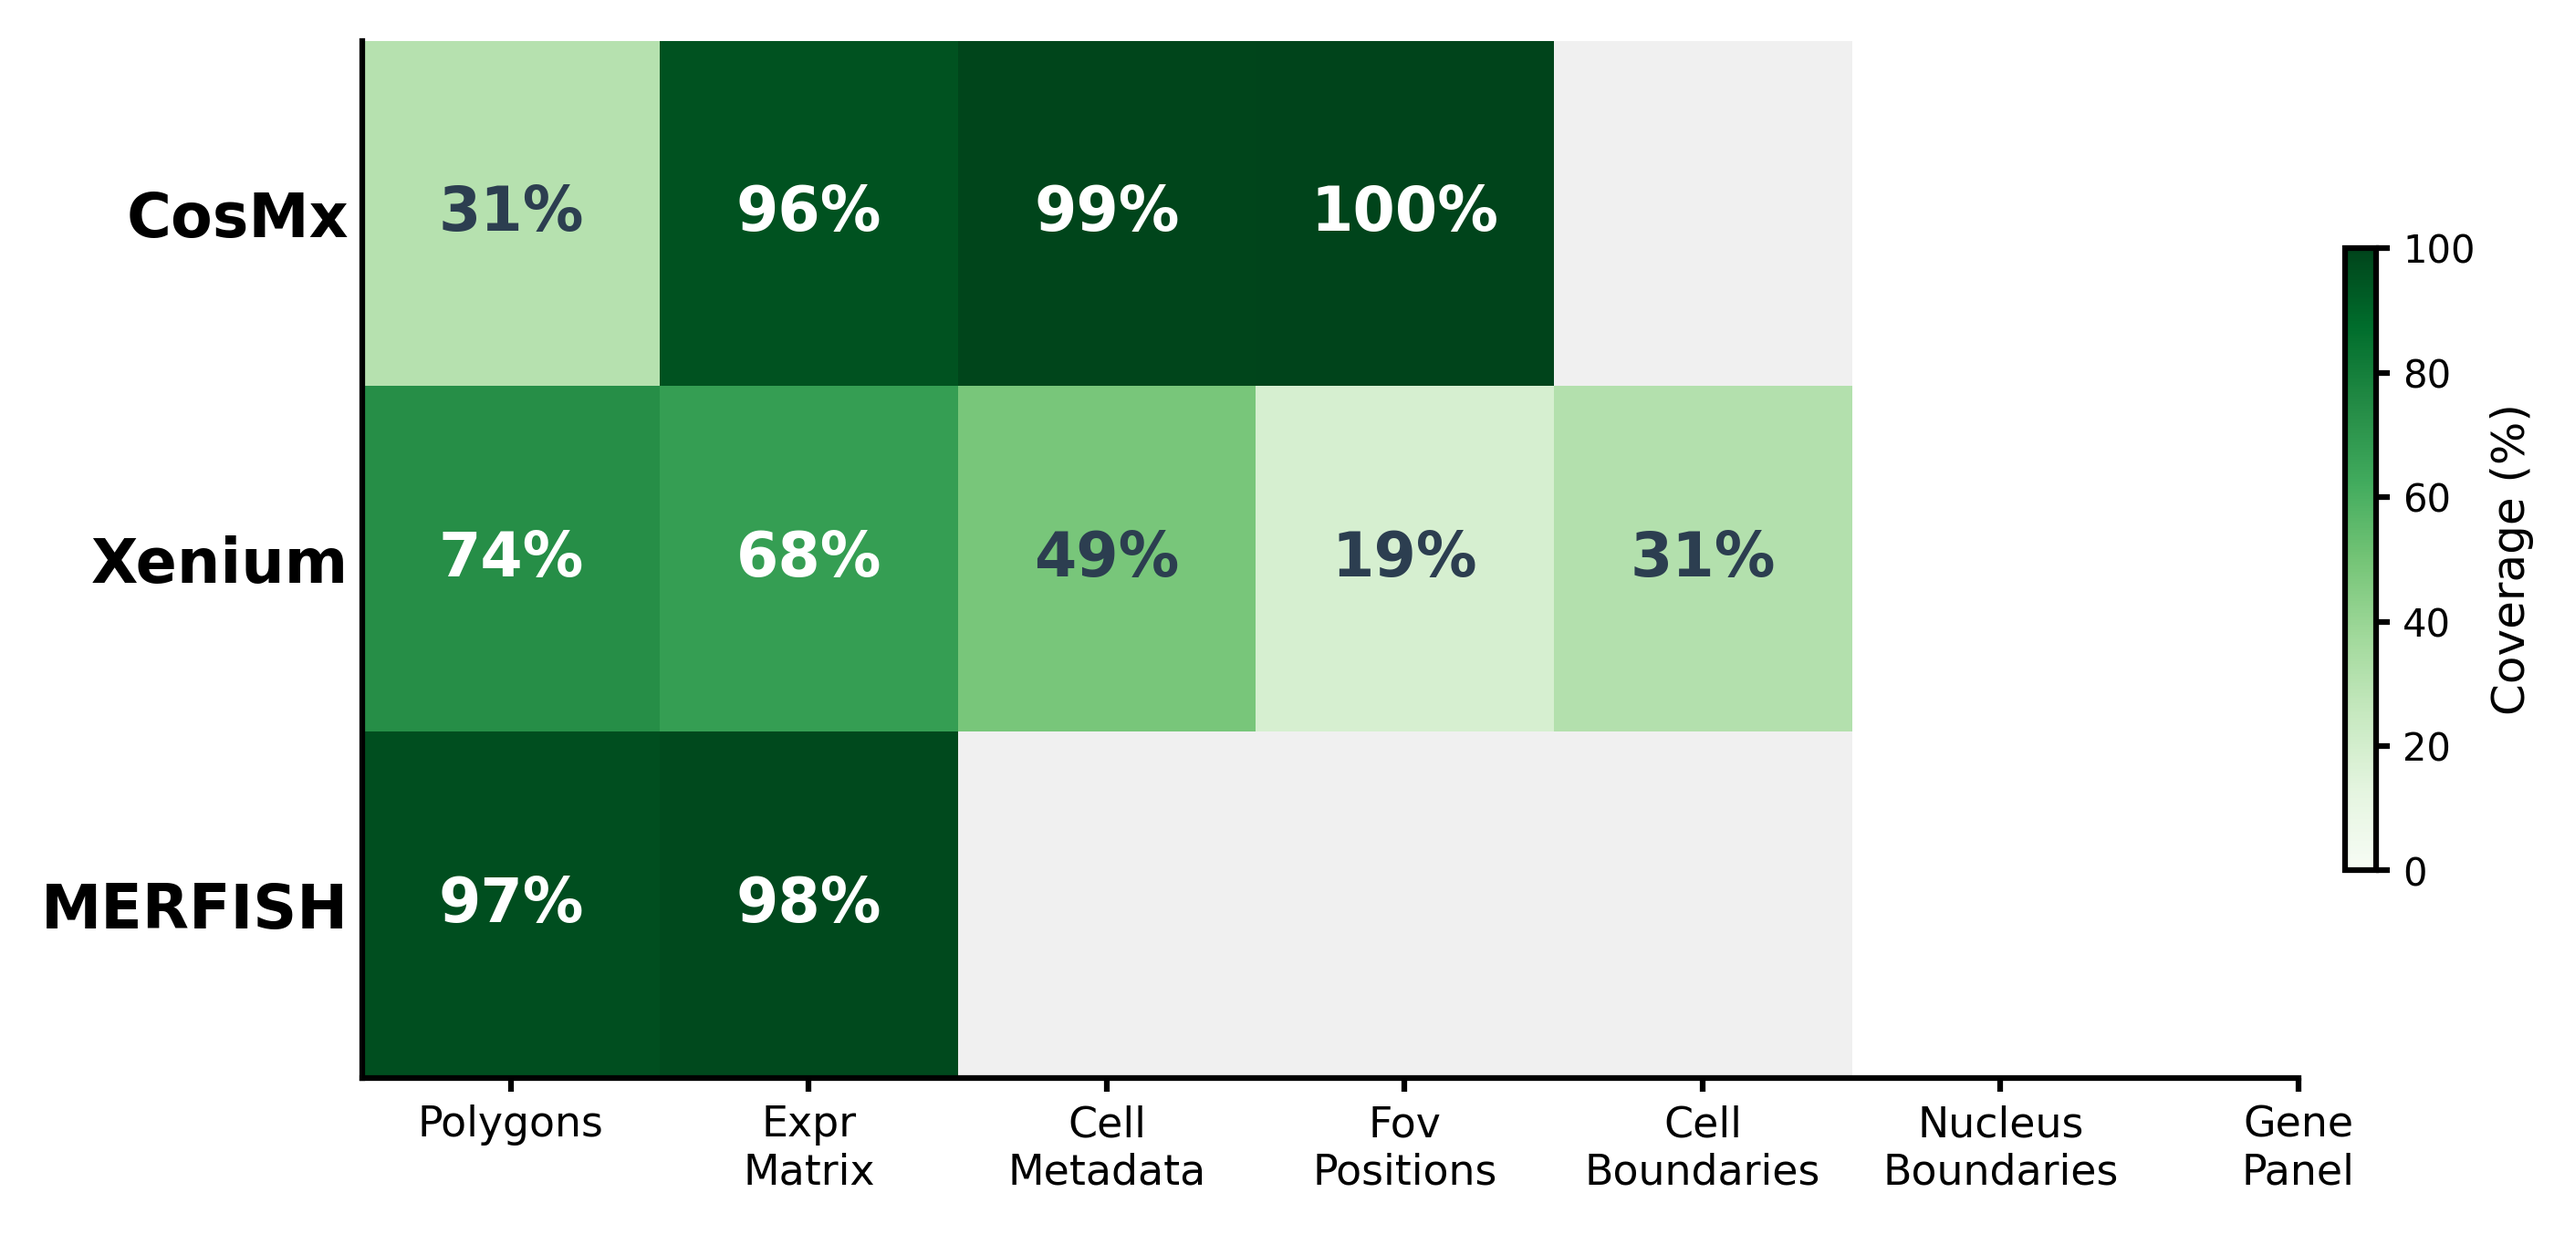
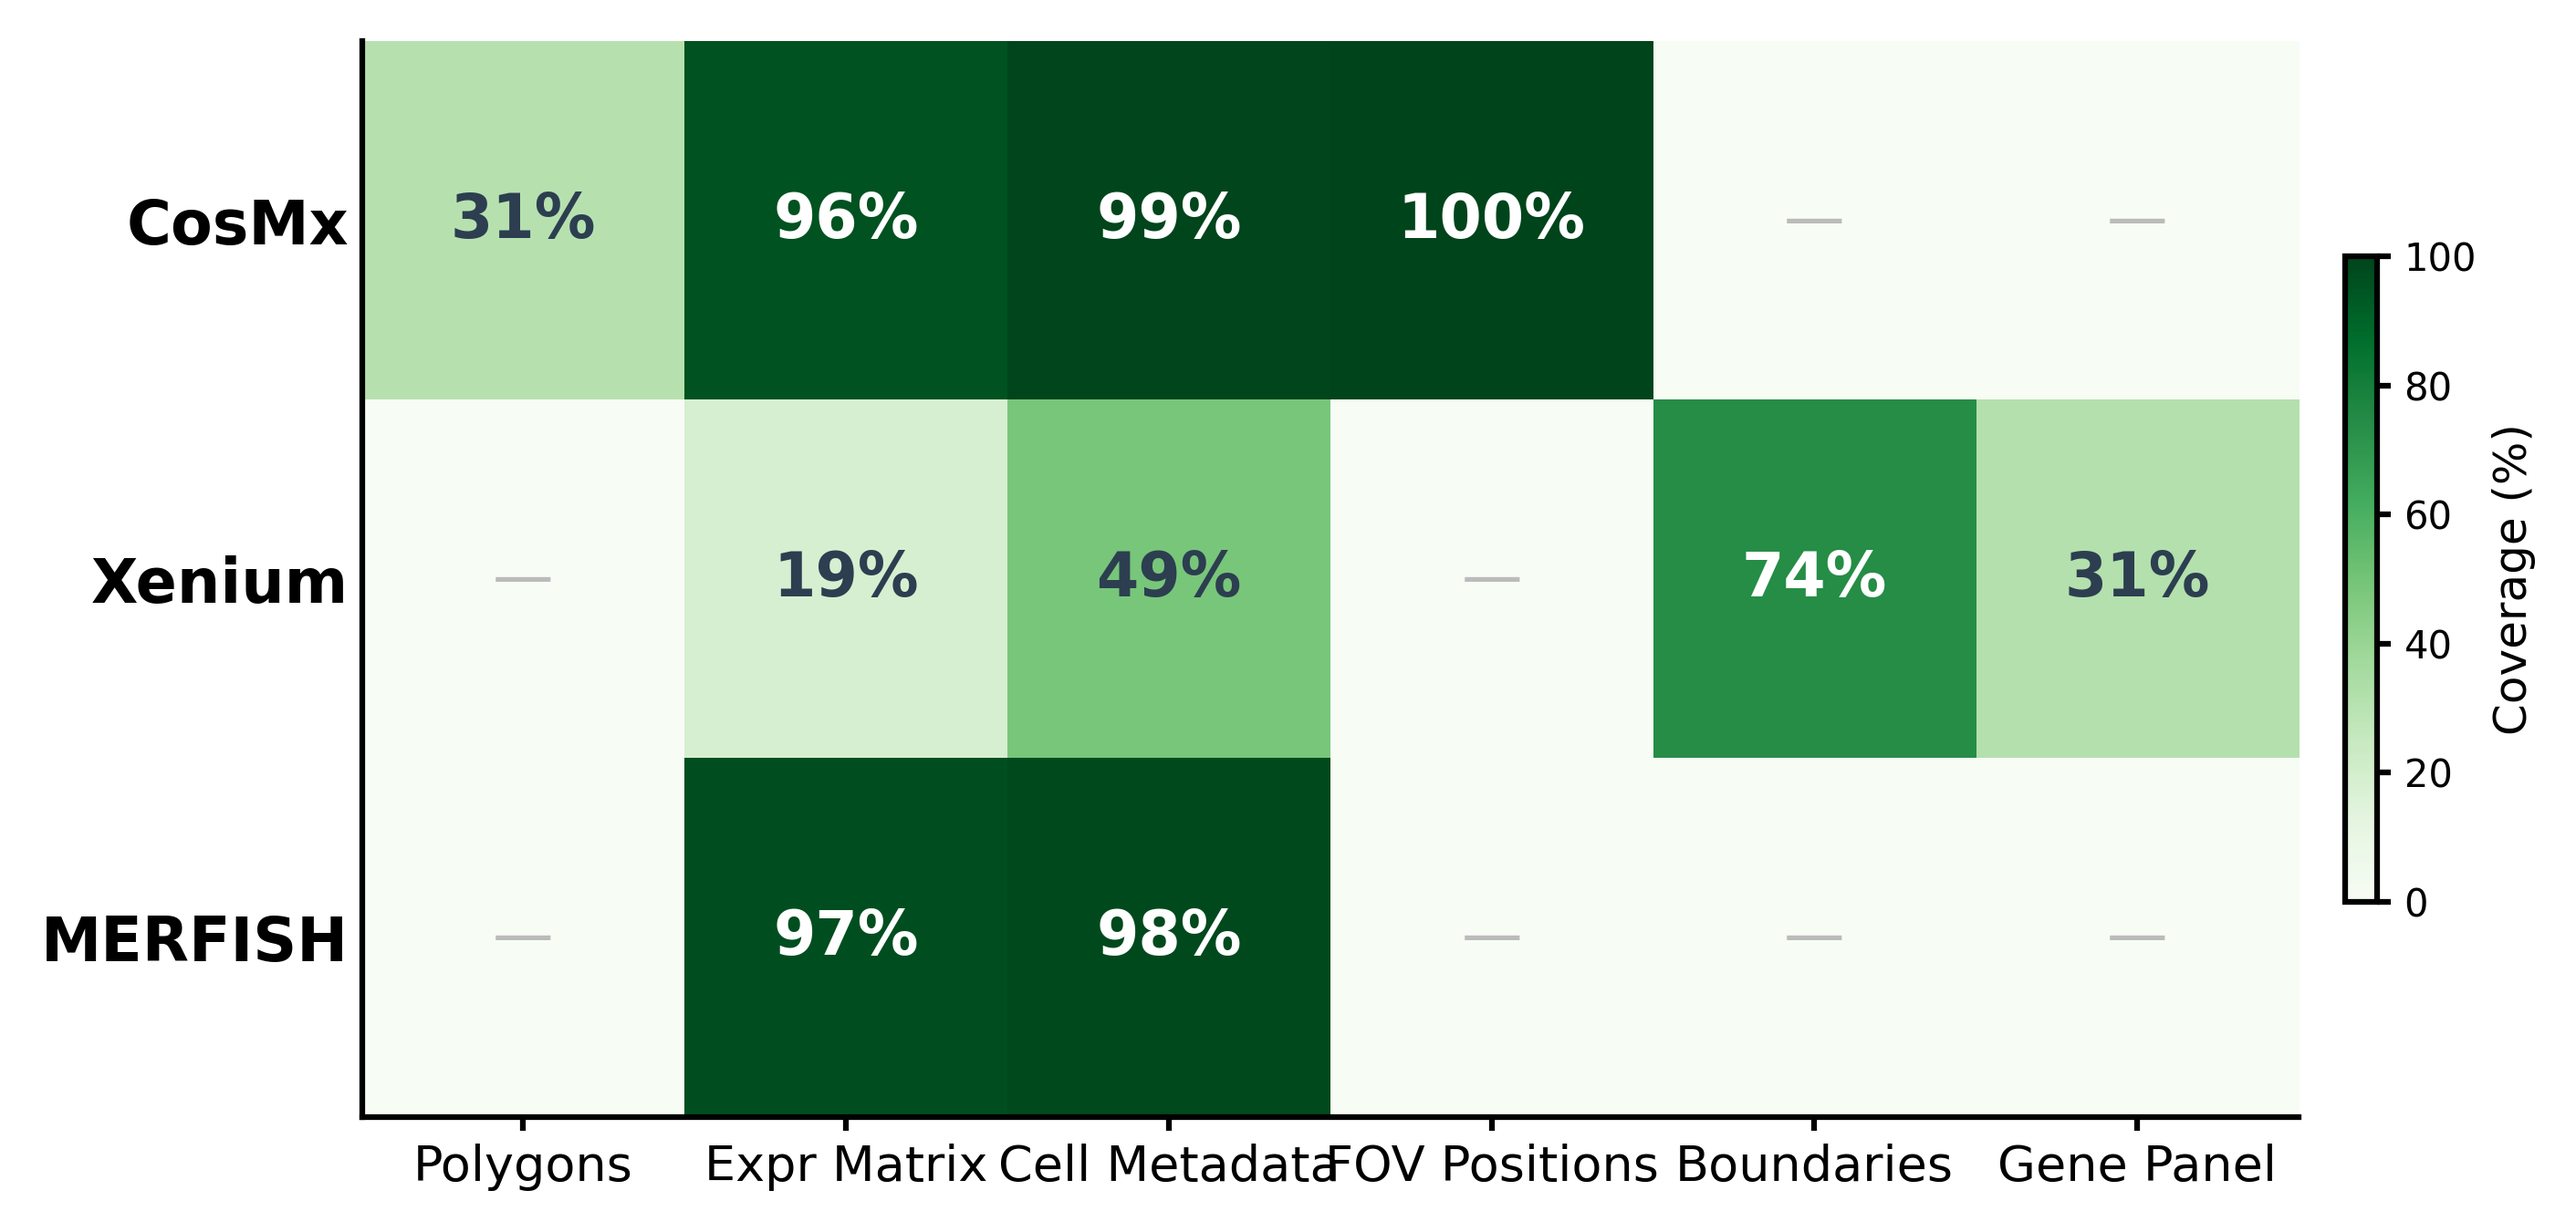
fix: fig2 heatmap alignment - 6 unified columns per platform
Categories: Polygons, Expr Matrix, Cell Metadata, FOV Positions,
Boundaries (cell+nucleus), Gene Panel.
Missing categories show '—' instead of misaligned blanks.

diff --git a/report/gen_poster_figures.py b/report/gen_poster_figures.py
@@ -94,44 +94,54 @@ def fig1_platform_counts():
 # ═════════════════════════════════════════════════════════════════
 
 def fig2_file_coverage():
-    opt_files = {
-        'CosMx': ['polygons','expr_matrix','cell_metadata','fov_positions'],
-        'Xenium': ['cell_boundaries','nucleus_boundaries','cell_metadata','expr_matrix','gene_panel'],
-        'MERFISH': ['expr_matrix','cell_metadata'],
-    }
+    # 统一文件类别，跨平台映射
+    categories = [
+        ('polygons',      ['polygons'],                        'Polygons'),
+        ('expr_matrix',   ['expr_matrix'],                     'Expr Matrix'),
+        ('cell_metadata', ['cell_metadata'],                    'Cell Metadata'),
+        ('fov_positions', ['fov_positions'],                   'FOV Positions'),
+        ('boundaries',    ['cell_boundaries', 'nucleus_boundaries'], 'Boundaries'),
+        ('gene_panel',    ['gene_panel'],                      'Gene Panel'),
+    ]
     platforms = ['CosMx', 'Xenium', 'MERFISH']
-    max_cols = max(len(v) for v in opt_files.values())
-    padded, labels = [], []
 
+    # 构建数据矩阵: platforms × categories
+    data = []
     for p in platforms:
         ready = [r for r in all_data[p] if r.get('status','').strip()=='ready']
         n = max(len(ready), 1)
-        row = [sum(1 for r in ready if fname in r.get('available_files',''))/n*100
-               for fname in opt_files[p]]
-        row += [np.nan] * (max_cols - len(row))
-        padded.append(row)
-        labels.append(p)
+        row = []
+        for cat_key, cat_names, cat_label in categories:
+            cnt = 0
+            for r in ready:
+                avail = r.get('available_files','')
+                for name in cat_names:
+                    if name in avail:
+                        cnt += 1
+                        break
+            row.append(cnt / n * 100)
+        data.append(row)
+
+    cats = [c[2] for c in categories]
 
     fig, ax = plt.subplots(figsize=(10, 4.5))
     cmap = plt.cm.Greens
-    cmap.set_bad('#f0f0f0')
-    im = ax.imshow(padded, cmap=cmap, aspect='auto', vmin=0, vmax=100)
+    im = ax.imshow(data, cmap=cmap, aspect='auto', vmin=0, vmax=100)
 
     for i in range(len(platforms)):
-        for j in range(max_cols):
-            v = padded[i][j]
-            if not np.isnan(v):
+        for j in range(len(cats)):
+            v = data[i][j]
+            txt_color = 'white' if v > 50 else '#2c3e50'
+            if v == 0:
+                ax.text(j, i, '—', ha='center', va='center', fontsize=16, color='#bbb')
+            else:
                 ax.text(j, i, f'{v:.0f}%', ha='center', va='center',
-                        fontsize=16, fontweight='bold',
-                        color='white' if v > 50 else '#2c3e50')
+                        fontsize=16, fontweight='bold', color=txt_color)
 
-    all_labels = ['polygons','expr_matrix','cell_metadata','fov_positions',
-                  'cell_boundaries','nucleus_boundaries','gene_panel']
-    ax.set_xticks(range(len(all_labels)))
-    ax.set_xticklabels([l.replace('_','\n').title() for l in all_labels],
-                       fontsize=11, ha='center')
+    ax.set_xticks(range(len(cats)))
+    ax.set_xticklabels(cats, fontsize=13, ha='center')
     ax.set_yticks(range(len(platforms)))
-    ax.set_yticklabels(labels, fontsize=16, fontweight='bold')
+    ax.set_yticklabels(platforms, fontsize=16, fontweight='bold')
     ax.tick_params(axis='y', length=0)
 
     cbar = plt.colorbar(im, ax=ax, shrink=0.6, pad=0.02)
